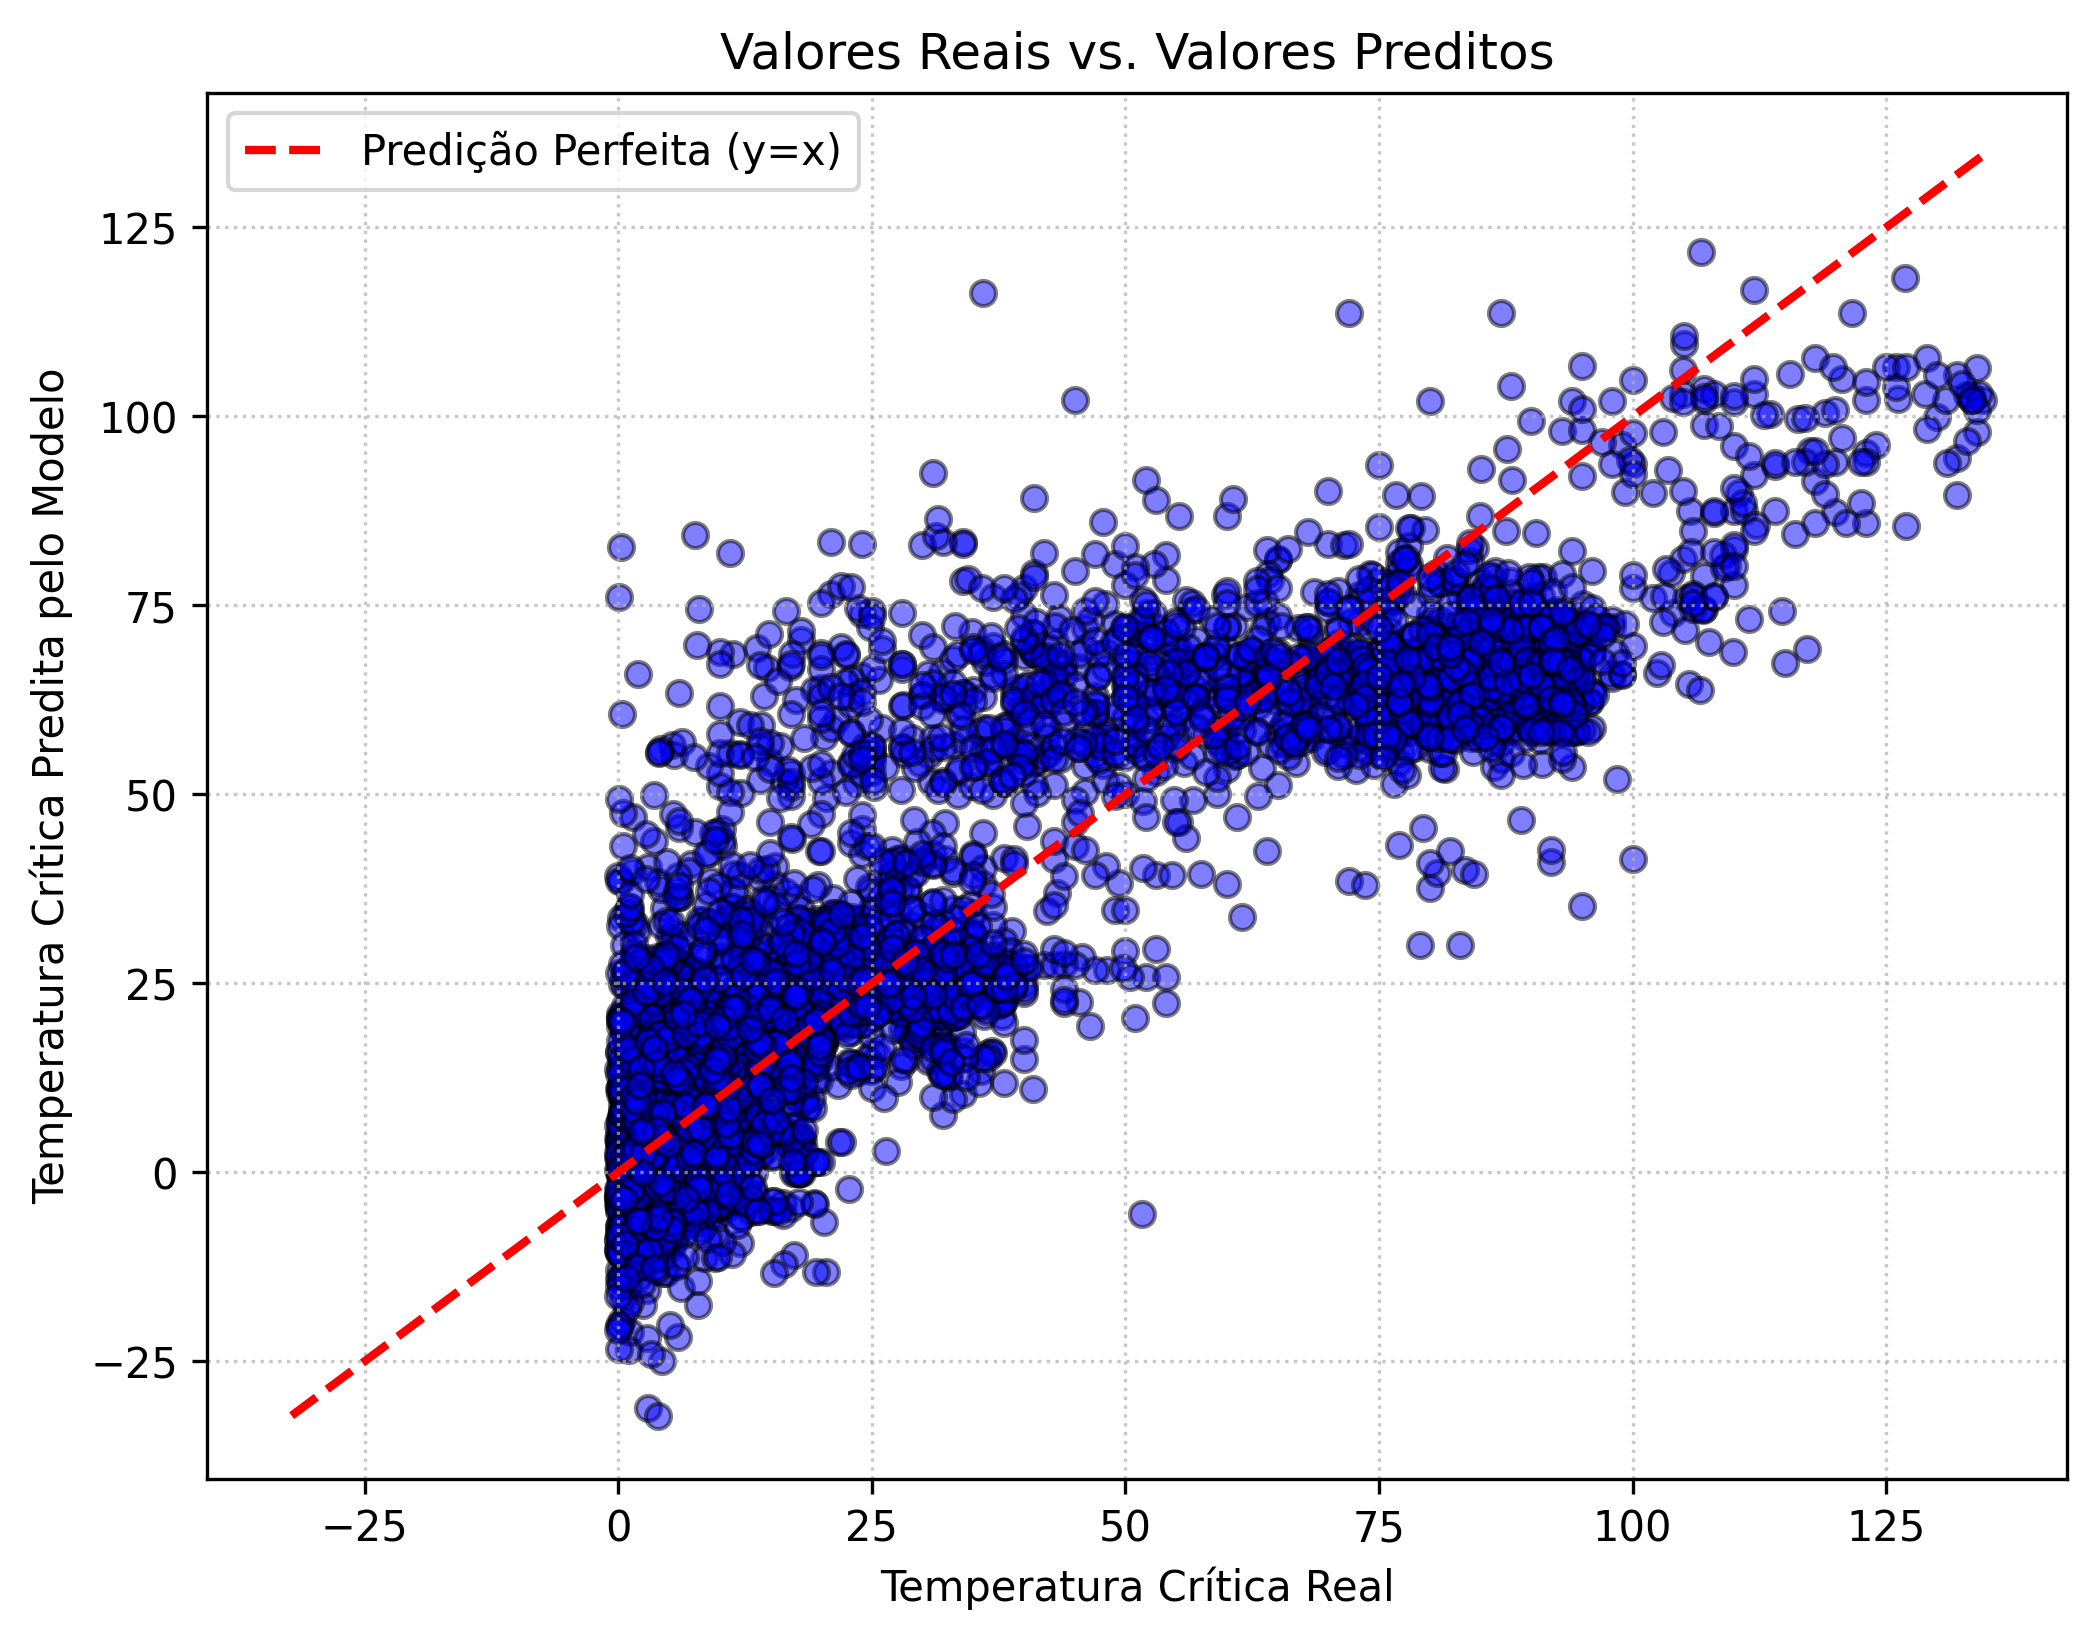
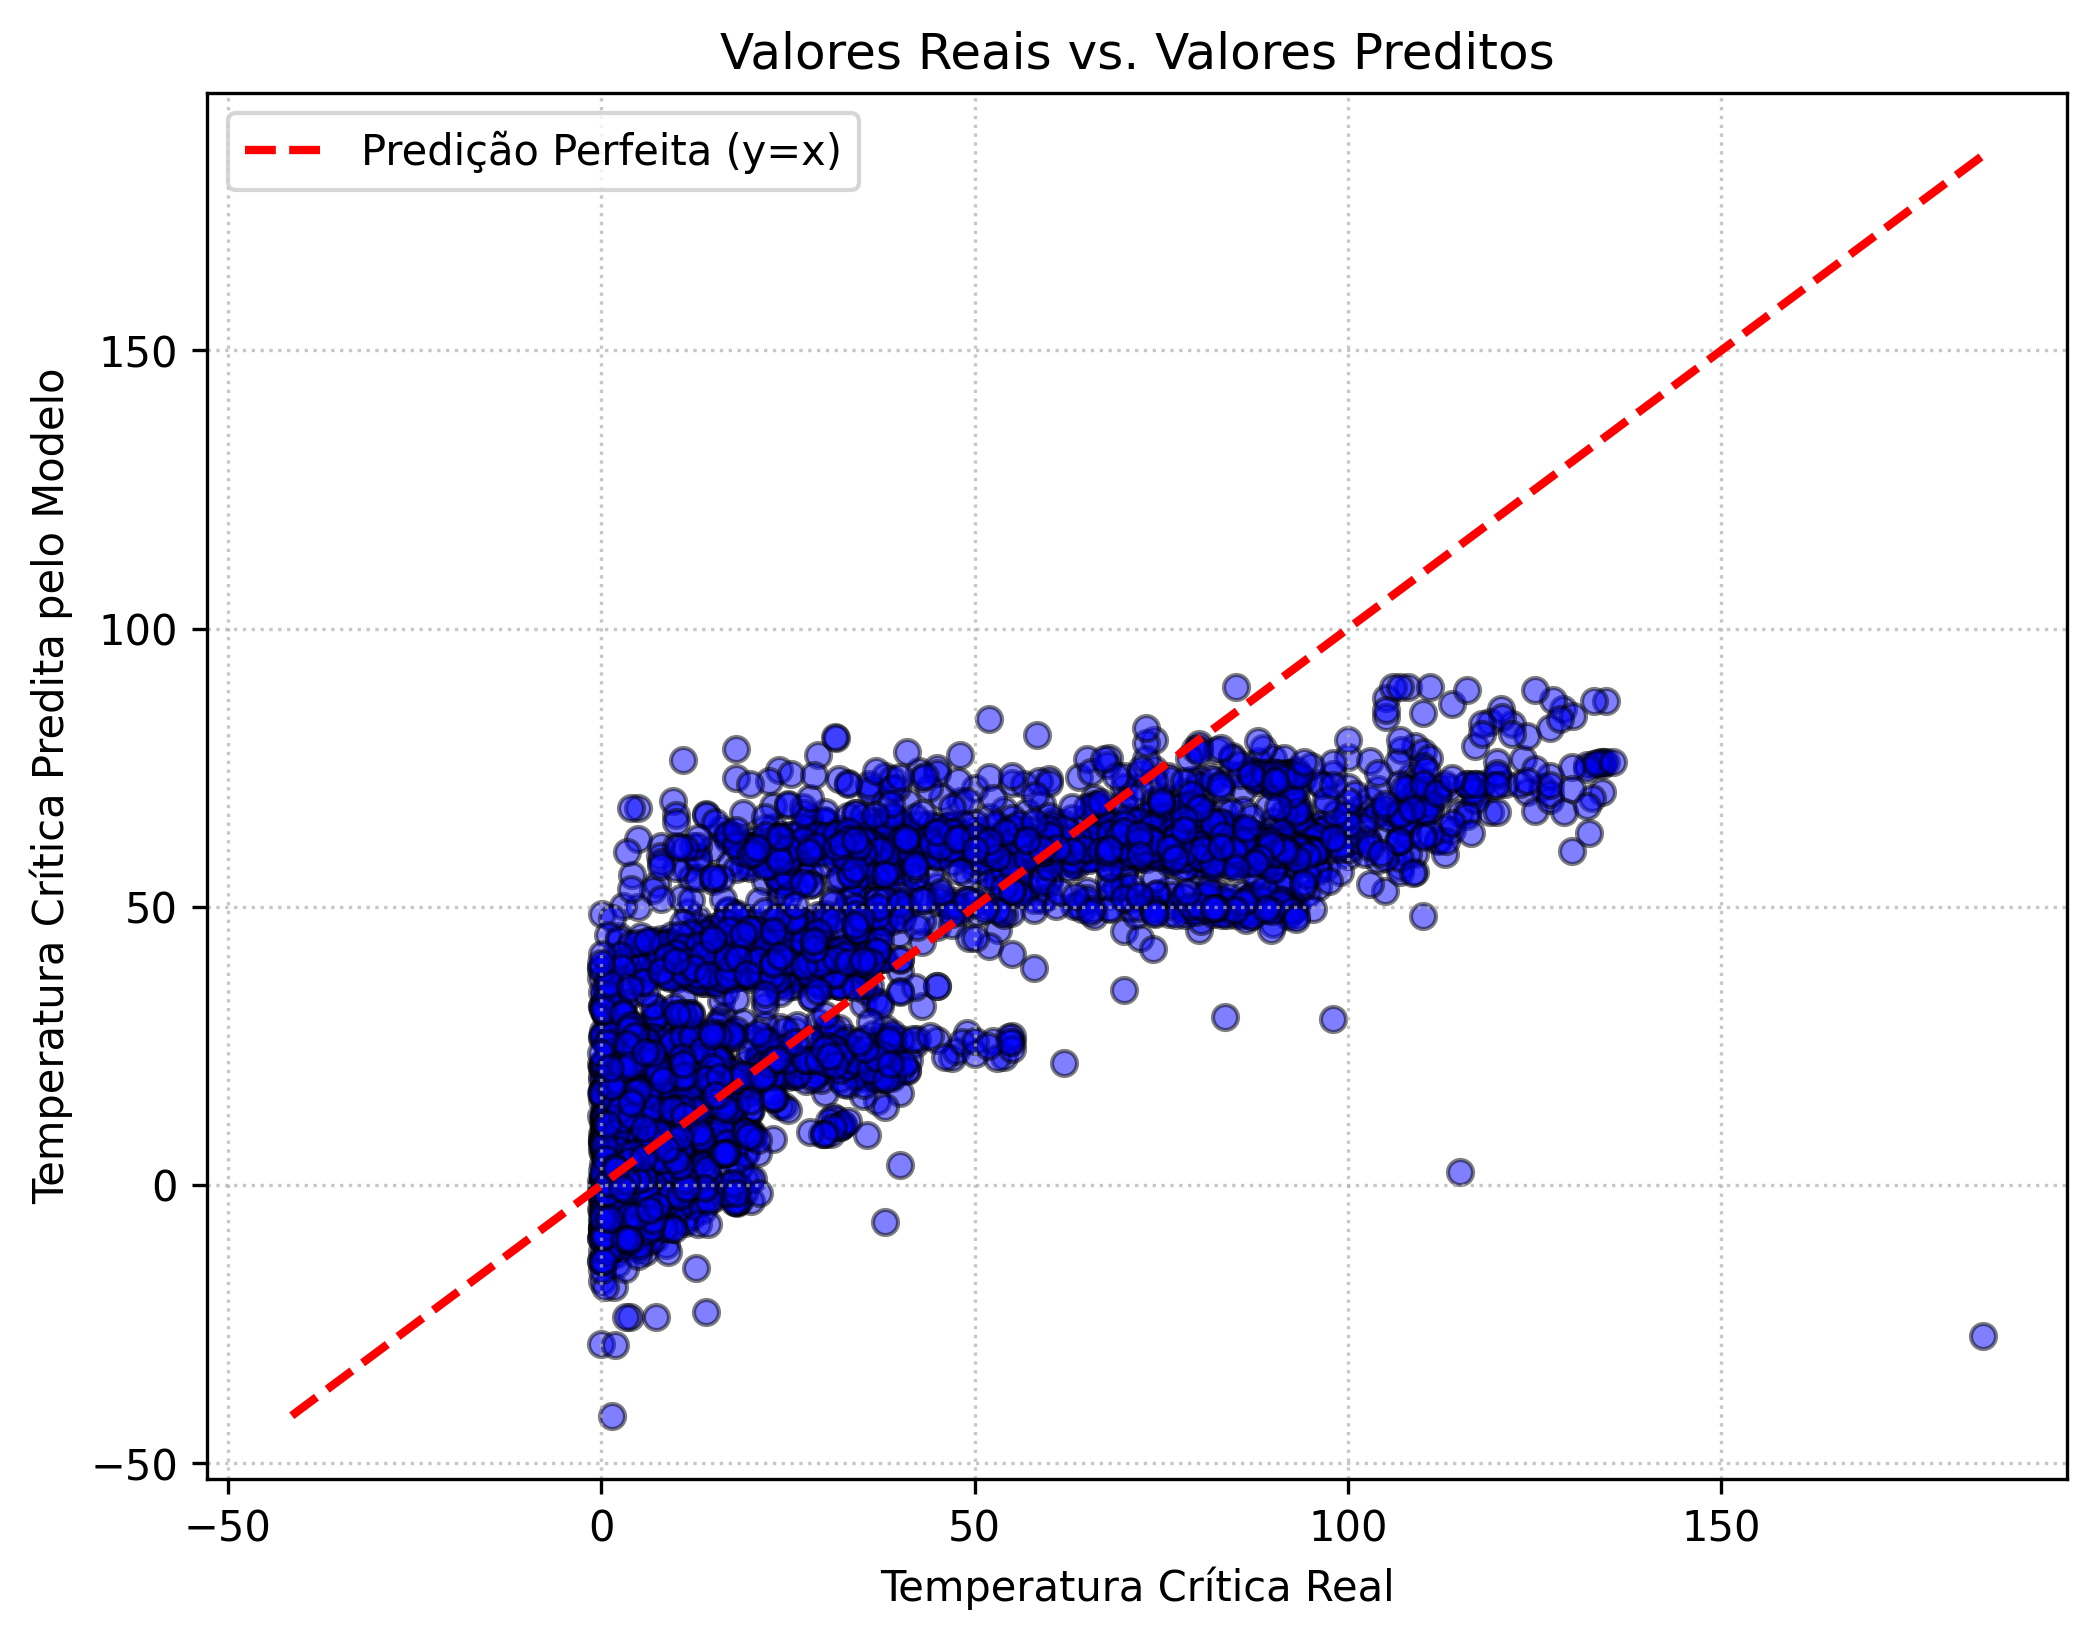
Ridge and Lasso Regressors

diff --git a/linear_regression.py b/linear_regression.py
@@ -1,12 +1,31 @@
+import os
 import pandas as pd
 import numpy as np
 import matplotlib.pyplot as plt
-from sklearn.linear_model import LinearRegression
+import sklearn.preprocessing
+from sklearn.linear_model import LinearRegression, Ridge, Lasso, RidgeCV, LassoCV
 from sklearn.model_selection import train_test_split
-from sklearn.metrics import mean_squared_error, r2_score , mean_absolute_error, mean_absolute_percentage_error
+from sklearn.metrics import mean_squared_error, r2_score, mean_absolute_error, mean_absolute_percentage_error
 
 
+MODELO_ESCOLHIDO = "Linear"  
+SCALER_ESCOLHIDO = "Standard" 
 
+#Models and scalers for comparison
+models = {
+    "Linear": LinearRegression(),
+    "Ridge": Ridge(alpha=1.0, random_state=78),
+    "Lasso": Lasso(alpha=1.0, random_state=78, max_iter=10000),
+    "RidgeCV": RidgeCV(alphas=np.logspace(-3, 3, 7), cv=5),                     #0.001, 0.01, 0.1, 1, 10, 100, 1000
+    "LassoCV": LassoCV(alphas=10, cv=5, random_state=78, max_iter=50000)
+}
+
+scalers = {
+    "Standard": sklearn.preprocessing.StandardScaler(),
+    "Nenhum": None
+}
+
+#Data loading and splitting
 train_file_path = "Project/superconductivty+data/train.csv"
 labels_path = "Project/superconductivty+data/unique_m.csv"
 
@@ -17,57 +36,80 @@ X = df.drop(columns=["critical_temp"])
 Y = df_labels["critical_temp"]
 
 x_train, x_test, y_train, y_test = train_test_split(
-    X,
-    Y,
-    test_size=0.2,
-    random_state=42,
+    X, Y, test_size=0.2, random_state=78
 )
 
-model = LinearRegression()
-model.fit(x_train,y_train)
+#Data preprocessing
+scaler = scalers[SCALER_ESCOLHIDO]
 
-print(f"Slope: {model.coef_[0]}")
-print(f"Intercept: {model.intercept_}")
+if scaler is not None:
+    x_train = scaler.fit_transform(x_train)
+    x_test = scaler.transform(x_test)
+else:
+    x_train = x_train.values
+    x_test = x_test.values
 
+#Training
+model = models[MODELO_ESCOLHIDO]
+model.fit(x_train, y_train)
+
+print(f"=== Configuração Executada ===")
+print(f"Modelo: {MODELO_ESCOLHIDO}")
+print(f"Scaler: {SCALER_ESCOLHIDO}")
+print("-" * 30)
+
+if hasattr(model, 'alpha_'):
+    print(f"Melhor Alpha encontrado por CV: {model.alpha_}")
+if hasattr(model, 'coef_'):
+    print(f"Primeiro Slope (coef_): {model.coef_[0]}")
+    if MODELO_ESCOLHIDO in ["Lasso", "LassoCV"]:
+        features_ativas = np.sum(model.coef_ != 0)
+        print(f"Features mantidas (coef != 0): {features_ativas}/{X.shape[1]}")
+if hasattr(model, 'intercept_'):
+    print(f"Intercept: {model.intercept_}")
+
+print("-" * 30)
+
+#Prediction and evaluation
 y_pred = model.predict(x_test)
 
-def evaluate_model(y_true,y_pred):
-    mse = mean_squared_error(y_true,y_pred)
-    r2 = r2_score(y_true,y_pred)
-    mae = mean_absolute_error(y_true,y_pred)
-    mape = mean_absolute_percentage_error(y_true,y_pred)
-
+def evaluate_model(y_true, y_pred):
+    mse = mean_squared_error(y_true, y_pred)
+    r2 = r2_score(y_true, y_pred)
+    mae = mean_absolute_error(y_true, y_pred)
+    mape = mean_absolute_percentage_error(y_true, y_pred)
     print(f'MSE: {mse:.4f} | R2: {r2:.4f} | MAE: {mae:.4f} | MAPE: {mape:.4f}')
 
-print(y_pred.shape)
-evaluate_model(y_pred,y_test)
+evaluate_model(y_test, y_pred)
 
+#Plotting predictions vs real values
 def compare_predictions(y_true, y_pred, num_samples=15):
-
     comparison_df = pd.DataFrame({
         'Valor Real': y_true,
         'Valor Predito': y_pred,
         'Erro Absoluto': abs(y_true - y_pred)
     })
     
-    print(f"--- Primeiras {num_samples} amostras do Teste ---")
+    print(f"\n--- Primeiras {num_samples} Amostras do Teste ---")
     print(comparison_df.head(num_samples))
-    print("\n")
     
     plt.figure(figsize=(8, 6))
-    
     plt.scatter(y_true, y_pred, alpha=0.5, color='blue', edgecolor='k')
     
     min_val = min(y_true.min(), y_pred.min())
     max_val = max(y_true.max(), y_pred.max())
     plt.plot([min_val, max_val], [min_val, max_val], color='red', linestyle='--', linewidth=2, label='Predição Perfeita (y=x)')
 
-    plt.title("Valores Reais vs. Valores Preditos")
+    plt.title(f"Reais vs. Preditos - {MODELO_ESCOLHIDO} ({SCALER_ESCOLHIDO})")
     plt.xlabel("Temperatura Crítica Real")
-    plt.ylabel("Temperatura Crítica Predita pelo Modelo")
+    plt.ylabel("Temperatura Crítica Predita")
     plt.legend()
     plt.grid(True, linestyle=':', alpha=0.7)
-    plt.savefig("Project/results/grafico_linear_regression.png", dpi=300, bbox_inches='tight')
+    
+    # Salva o gráfico dinamicamente com o nome do modelo para não sobrescrever os anteriores
+    os.makedirs("Project/results", exist_ok=True)
+    nome_arquivo = f"Project/results/grafico_{MODELO_ESCOLHIDO.lower()}_{SCALER_ESCOLHIDO.lower()}.png"
+    plt.savefig(nome_arquivo, dpi=300, bbox_inches='tight')
+    print(f"\nGráfico salvo em: {nome_arquivo}")
 
 compare_predictions(y_test, y_pred)
-